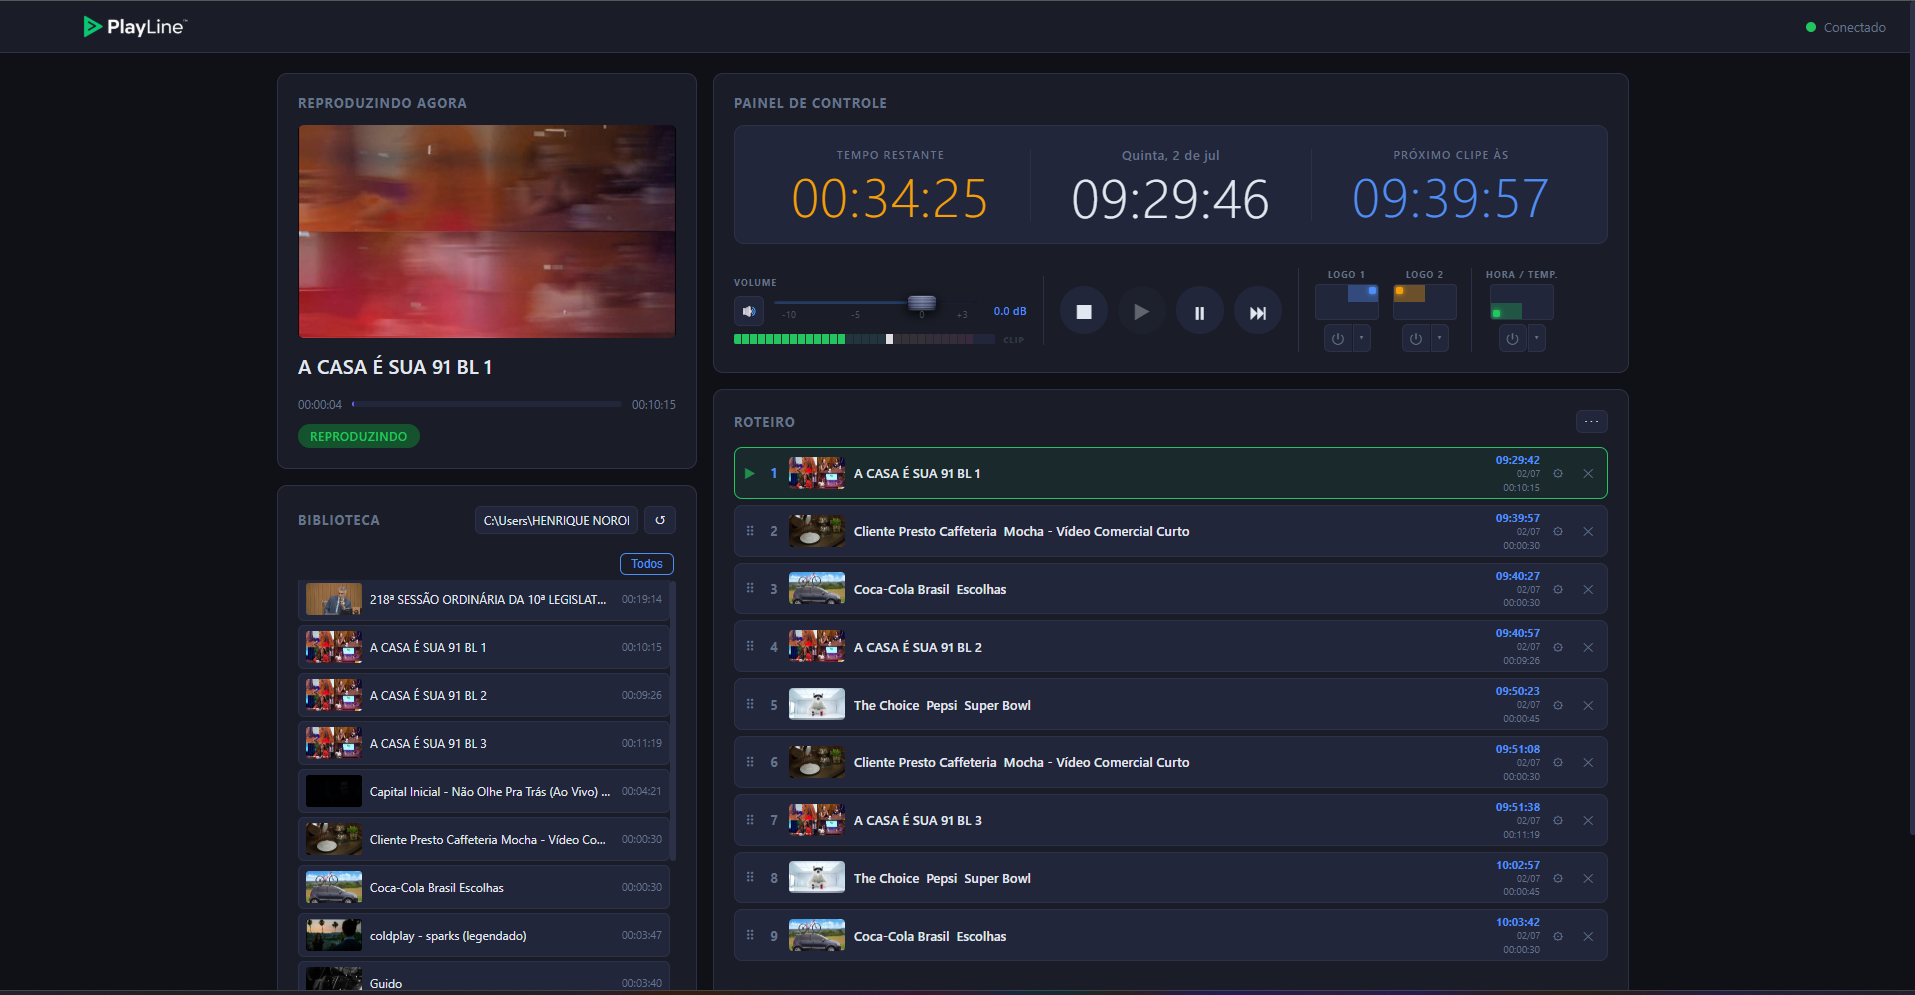
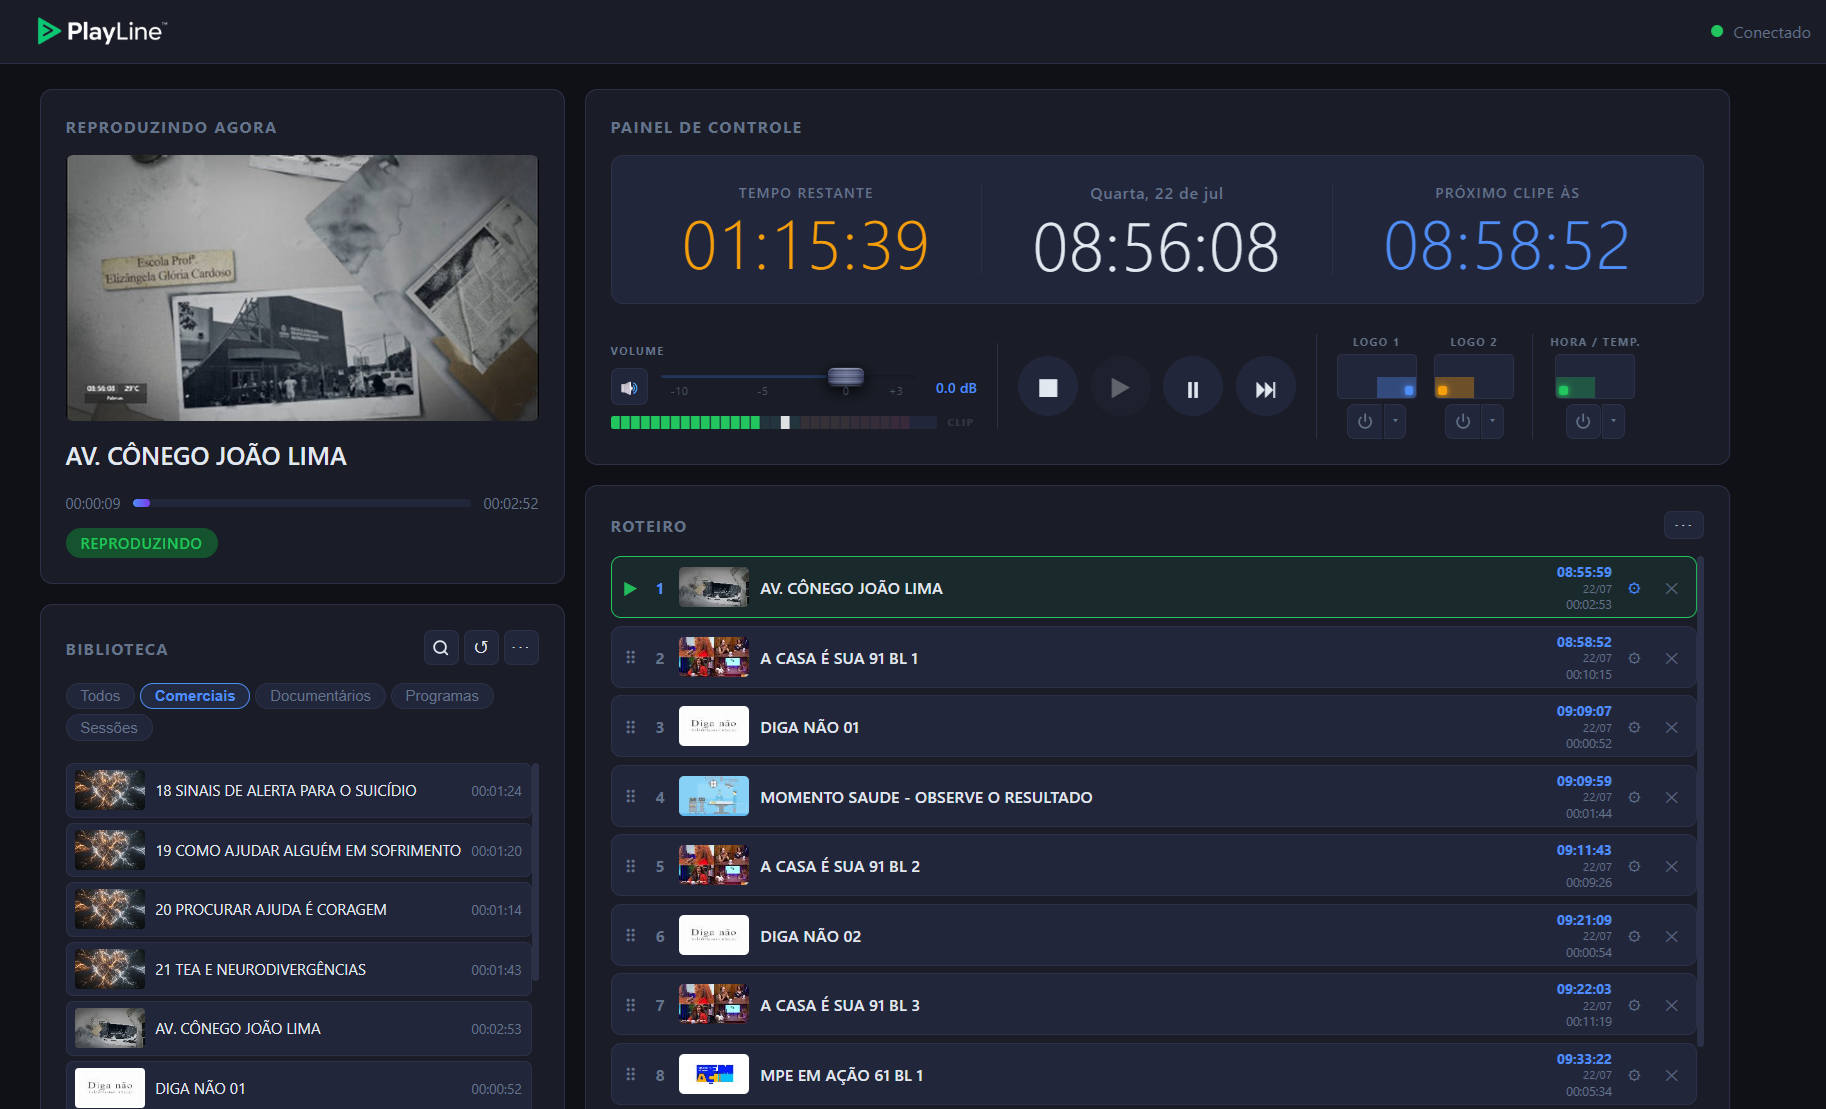
..

diff --git a/frontend/components/text_overlay.js b/frontend/components/text_overlay.js
@@ -7,11 +7,12 @@
 })();
 
 const _textState = {
-  active:    false,
-  show_time: true,
-  show_temp: true,
-  corner:    localStorage.getItem("playline_to_corner") || "tl",
-  city:      localStorage.getItem("playline_to_city")   || "Palmas,TO",
+  active:      false,
+  show_time:   true,
+  show_temp:   true,
+  corner:      localStorage.getItem("playline_to_corner")      || "tl",
+  city:        localStorage.getItem("playline_to_city")        || "Palmas,TO",
+  manual_temp: localStorage.getItem("playline_to_manual_temp") || "",
 };
 
 function applyTextOverlayState(s) {
@@ -22,25 +23,31 @@ function applyTextOverlayState(s) {
     _textState.corner = s.corner;
     localStorage.setItem("playline_to_corner", s.corner);
   }
-  if (s.city      !== undefined) {
+  if (s.city !== undefined) {
     const city = (s.city === "Palmas") ? "Palmas,TO" : s.city;
     _textState.city = city;
     localStorage.setItem("playline_to_city", city);
     if (city !== s.city) _sendTextOverlay();
   }
+  if (s.manual_temp !== undefined) {
+    _textState.manual_temp = s.manual_temp;
+    localStorage.setItem("playline_to_manual_temp", s.manual_temp);
+  }
   _syncTextUI();
 }
 
 function _syncTextUI() {
-  const toggle    = document.getElementById("btn-text-toggle");
-  const timeCheck = document.getElementById("pick-time-check");
-  const tempCheck = document.getElementById("pick-temp-check");
-  const cityInp   = document.getElementById("to-city-input");
+  const toggle     = document.getElementById("btn-text-toggle");
+  const timeCheck  = document.getElementById("pick-time-check");
+  const tempCheck  = document.getElementById("pick-temp-check");
+  const citySelect = document.getElementById("to-city-select");
+  const tempInput  = document.getElementById("to-temp-input");
 
-  if (toggle)    toggle.classList.toggle("active", _textState.active);
-  if (timeCheck) timeCheck.style.visibility = _textState.show_time ? "" : "hidden";
-  if (tempCheck) tempCheck.style.visibility = _textState.show_temp ? "" : "hidden";
-  if (cityInp && document.activeElement !== cityInp) cityInp.value = _textState.city;
+  if (toggle)     toggle.classList.toggle("active", _textState.active);
+  if (timeCheck)  timeCheck.style.visibility = _textState.show_time ? "" : "hidden";
+  if (tempCheck)  tempCheck.style.visibility = _textState.show_temp ? "" : "hidden";
+  if (citySelect && document.activeElement !== citySelect) citySelect.value = _textState.city;
+  if (tempInput  && document.activeElement !== tempInput)  tempInput.value  = _textState.manual_temp || "";
 
   _updateTextPosSelector();
   _updatePreviewOverlay();
@@ -86,6 +93,11 @@ let _previewTemp = null;
 let _previewCityFetched = "";
 
 async function _fetchPreviewTemp() {
+  const manual = (_textState.manual_temp || "").trim();
+  if (manual) {
+    _previewTemp = manual;
+    return;
+  }
   const city = (_textState.city || "Palmas").split(",")[0].trim();
   try {
     const r = await fetch(`/api/temperature?city=${encodeURIComponent(city)}`);
@@ -174,10 +186,12 @@ function _updatePreviewOverlay() {
 // ── Init ──────────────────────────────────────────────────────────────────────
 
 function initTextOverlayUI() {
-  const toggle  = document.getElementById("btn-text-toggle");
-  const timeBtn = document.getElementById("to-show-time-btn");
-  const tempBtn = document.getElementById("to-show-temp-btn");
-  const cityInp = document.getElementById("to-city-input");
+  const toggle     = document.getElementById("btn-text-toggle");
+  const timeBtn    = document.getElementById("to-show-time-btn");
+  const tempBtn    = document.getElementById("to-show-temp-btn");
+  const citySelect = document.getElementById("to-city-select");
+  const tempInput  = document.getElementById("to-temp-input");
+  const fetchBtn   = document.getElementById("to-temp-fetch");
 
   _syncTextUI();
 
@@ -189,7 +203,7 @@ function initTextOverlayUI() {
   _fetchPreviewTemp();
   setInterval(() => {
     if (_textState.show_temp) _fetchPreviewTemp();
-  }, 60000);
+  }, 900000);
 
   if (toggle) {
     toggle.addEventListener("click", () => {
@@ -208,6 +222,7 @@ function initTextOverlayUI() {
       e.stopPropagation();
       textDropdown.classList.toggle("open");
     });
+    textDropdown.addEventListener("click", e => e.stopPropagation());
     document.addEventListener("click", () => textDropdown.classList.remove("open"));
   }
 
@@ -235,17 +250,53 @@ function initTextOverlayUI() {
     });
   }
 
-  if (cityInp) {
-    let _cityTimer = null;
-    cityInp.addEventListener("input", () => {
-      const val = cityInp.value.trim();
-      _textState.city = val || "Palmas";
+  if (citySelect) {
+    citySelect.addEventListener("change", () => {
+      _textState.city = citySelect.value;
       localStorage.setItem("playline_to_city", _textState.city);
-      clearTimeout(_cityTimer);
-      _cityTimer = setTimeout(() => {
-        _fetchPreviewTemp();
+      if (!_textState.manual_temp) {
+        _fetchPreviewTemp().then(() => _updatePreviewOverlay());
+      }
+      _sendTextOverlay();
+    });
+  }
+
+  if (tempInput) {
+    let _tempTimer = null;
+    tempInput.addEventListener("input", () => {
+      _textState.manual_temp = tempInput.value.trim();
+      localStorage.setItem("playline_to_manual_temp", _textState.manual_temp);
+      clearTimeout(_tempTimer);
+      _tempTimer = setTimeout(() => {
+        if (_textState.manual_temp) {
+          _previewTemp = _textState.manual_temp;
+          _updatePreviewOverlay();
+        } else {
+          _fetchPreviewTemp().then(() => _updatePreviewOverlay());
+        }
         _sendTextOverlay();
-      }, 700);
+      }, 500);
+    });
+  }
+
+  if (fetchBtn) {
+    fetchBtn.addEventListener("click", async e => {
+      e.stopPropagation();
+      fetchBtn.disabled = true;
+      const prevManual = _textState.manual_temp;
+      _textState.manual_temp = "";
+      await _fetchPreviewTemp();
+      if (_previewTemp) {
+        if (tempInput) tempInput.value = _previewTemp;
+        _textState.manual_temp = _previewTemp;
+        localStorage.setItem("playline_to_manual_temp", _previewTemp);
+      } else {
+        _textState.manual_temp = prevManual;
+        if (tempInput) tempInput.value = prevManual;
+      }
+      _updatePreviewOverlay();
+      _sendTextOverlay();
+      fetchBtn.disabled = false;
     });
   }
 

diff --git a/frontend/index.html b/frontend/index.html
@@ -136,7 +136,7 @@
                 <div class="pos-indicator"></div>
               </div>
               <div class="logo-toggle-wrap">
-                <button class="btn-logo-toggle" data-slot="1" title="Ativar logo 1">⏻</button>
+                <button class="btn-logo-toggle" data-slot="1" title="Ativar logo 1"><svg xmlns="http://www.w3.org/2000/svg" width="13" height="13" viewBox="0 0 24 24" fill="none" stroke="currentColor" stroke-width="2.5" stroke-linecap="round" stroke-linejoin="round"><path d="M18.36 6.64a9 9 0 1 1-12.73 0"/><line x1="12" y1="2" x2="12" y2="12"/></svg></button>
                 <button class="btn-logo-pick" data-slot="1" title="Selecionar logo">▾</button>
                 <div class="logo-picker-dropdown" id="logo-picker-1"></div>
               </div>
@@ -152,7 +152,7 @@
                 <div class="pos-indicator"></div>
               </div>
               <div class="logo-toggle-wrap">
-                <button class="btn-logo-toggle" data-slot="2" title="Ativar logo 2">⏻</button>
+                <button class="btn-logo-toggle" data-slot="2" title="Ativar logo 2"><svg xmlns="http://www.w3.org/2000/svg" width="13" height="13" viewBox="0 0 24 24" fill="none" stroke="currentColor" stroke-width="2.5" stroke-linecap="round" stroke-linejoin="round"><path d="M18.36 6.64a9 9 0 1 1-12.73 0"/><line x1="12" y1="2" x2="12" y2="12"/></svg></button>
                 <button class="btn-logo-pick" data-slot="2" title="Selecionar logo">▾</button>
                 <div class="logo-picker-dropdown" id="logo-picker-2"></div>
               </div>
@@ -168,7 +168,7 @@
                 <div class="pos-indicator"></div>
               </div>
               <div class="logo-toggle-wrap">
-                <button class="btn-text-toggle btn-logo-toggle" id="btn-text-toggle" title="Ativar hora/temperatura">⏻</button>
+                <button class="btn-text-toggle btn-logo-toggle" id="btn-text-toggle" title="Ativar hora/temperatura"><svg xmlns="http://www.w3.org/2000/svg" width="13" height="13" viewBox="0 0 24 24" fill="none" stroke="currentColor" stroke-width="2.5" stroke-linecap="round" stroke-linejoin="round"><path d="M18.36 6.64a9 9 0 1 1-12.73 0"/><line x1="12" y1="2" x2="12" y2="12"/></svg></button>
                 <button class="btn-logo-pick" id="btn-text-pick" title="Selecionar itens">▾</button>
                 <div class="logo-picker-dropdown" id="text-picker-dropdown">
                   <div class="logo-picker-item" id="pick-time">
@@ -178,6 +178,45 @@
                   <div class="logo-picker-item" id="pick-temp">
                     <span class="logo-picker-check" id="pick-temp-check">✓</span>
                     <span class="logo-picker-name">Temp.</span>
+                  </div>
+                  <div class="to-city-row">
+                    <select id="to-city-select" class="to-city-select">
+                      <option value="Aracaju,SE">Aracaju</option>
+                      <option value="Belém,PA">Belém</option>
+                      <option value="Belo Horizonte,MG">Belo Horizonte</option>
+                      <option value="Boa Vista,RR">Boa Vista</option>
+                      <option value="Campinas,SP">Campinas</option>
+                      <option value="Campo Grande,MS">Campo Grande</option>
+                      <option value="Cuiabá,MT">Cuiabá</option>
+                      <option value="Curitiba,PR">Curitiba</option>
+                      <option value="Florianópolis,SC">Florianópolis</option>
+                      <option value="Fortaleza,CE">Fortaleza</option>
+                      <option value="Goiânia,GO">Goiânia</option>
+                      <option value="João Pessoa,PB">João Pessoa</option>
+                      <option value="Londrina,PR">Londrina</option>
+                      <option value="Macapá,AP">Macapá</option>
+                      <option value="Maceió,AL">Maceió</option>
+                      <option value="Manaus,AM">Manaus</option>
+                      <option value="Natal,RN">Natal</option>
+                      <option value="Palmas,TO">Palmas</option>
+                      <option value="Porto Alegre,RS">Porto Alegre</option>
+                      <option value="Porto Velho,RO">Porto Velho</option>
+                      <option value="Recife,PE">Recife</option>
+                      <option value="Rio Branco,AC">Rio Branco</option>
+                      <option value="Rio de Janeiro,RJ">Rio de Janeiro</option>
+                      <option value="Salvador,BA">Salvador</option>
+                      <option value="Santos,SP">Santos</option>
+                      <option value="São Luís,MA">São Luís</option>
+                      <option value="São Paulo,SP">São Paulo</option>
+                      <option value="Teresina,PI">Teresina</option>
+                      <option value="Uberlândia,MG">Uberlândia</option>
+                      <option value="Vitória,ES">Vitória</option>
+                    </select>
+                  </div>
+                  <div class="to-temp-row">
+                    <span class="to-temp-label">Temp. manual</span>
+                    <input type="text" id="to-temp-input" class="to-temp-input" placeholder="—" maxlength="7" />
+                    <button id="to-temp-fetch" class="to-temp-fetch" title="Buscar temperatura via API"><svg xmlns="http://www.w3.org/2000/svg" width="12" height="12" viewBox="0 0 24 24" fill="none" stroke="currentColor" stroke-width="2.5" stroke-linecap="round" stroke-linejoin="round"><polyline points="23 4 23 10 17 10"/><path d="M20.49 15a9 9 0 1 1-2.12-9.36L23 10"/></svg></button>
                   </div>
                 </div>
               </div>

diff --git a/frontend/styles/text_overlay.css b/frontend/styles/text_overlay.css
@@ -27,9 +27,9 @@
   overflow: hidden;
 }
 
-/* Blocos — mesmos RGBA que o PIL (215/255 ≈ 0.843) */
+/* Blocos — mesmos RGBA que o PIL (190/255 ≈ 0.745) */
 .to-time {
-  background: rgba(0, 61, 165, 0.843);
+  background: rgba(68, 68, 68, 0.745);
   color: #fff;
   padding: 0.16em 0.25em;
   font-size: 1em;
@@ -40,7 +40,7 @@
 }
 
 .to-temp {
-  background: rgba(190, 120, 0, 0.843);
+  background: rgba(52, 52, 52, 0.745);
   color: #fff;
   padding: 0.16em 0.25em;
   font-size: 1em;
@@ -52,7 +52,7 @@
 
 /* Cidade — linha inteira abaixo (0.72 × font_sz) */
 .to-city-lbl {
-  background: rgba(5, 115, 48, 0.843);
+  background: rgba(38, 38, 38, 0.745);
   color: #fff;
   padding: 0.18em 0.25em;
   font-size: 0.72em;
@@ -61,6 +61,73 @@
   justify-content: center;
   border-radius: 0 0 3px 3px;
 }
+
+/* ── Cidade e temperatura manual no dropdown ── */
+.to-city-row {
+  padding: 6px 10px 4px;
+  border-top: 1px solid var(--border);
+}
+
+.to-city-select {
+  width: 100%;
+  background: var(--surface2);
+  border: 1px solid var(--border);
+  border-radius: 5px;
+  color: var(--text);
+  font-size: 11px;
+  padding: 4px 6px;
+  outline: none;
+  font-family: inherit;
+  cursor: pointer;
+}
+.to-city-select:focus { border-color: var(--accent); }
+
+.to-temp-row {
+  padding: 4px 10px 8px;
+  display: flex;
+  align-items: center;
+  gap: 5px;
+}
+
+.to-temp-label {
+  font-size: 10px;
+  color: var(--muted);
+  white-space: nowrap;
+  flex-shrink: 0;
+}
+
+.to-temp-input {
+  flex: 1;
+  min-width: 0;
+  background: var(--surface2);
+  border: 1px solid var(--border);
+  border-radius: 5px;
+  color: var(--text);
+  font-size: 11px;
+  padding: 4px 6px;
+  outline: none;
+  font-family: inherit;
+}
+.to-temp-input:focus { border-color: var(--accent); }
+.to-temp-input::placeholder { color: var(--muted); }
+
+.to-temp-fetch {
+  flex-shrink: 0;
+  width: 24px;
+  height: 24px;
+  background: var(--surface2);
+  border: 1px solid var(--border);
+  border-radius: 5px;
+  color: var(--muted);
+  cursor: pointer;
+  display: flex;
+  align-items: center;
+  justify-content: center;
+  transition: background .1s, color .1s;
+  padding: 0;
+}
+.to-temp-fetch:hover   { background: var(--border); color: var(--text); }
+.to-temp-fetch:disabled { opacity: .4; cursor: not-allowed; }
 
 /* ── Hora / Temperatura overlay controls ── */
 

diff --git a/frontend/components/playlist.js b/frontend/components/playlist.js
@@ -588,7 +588,7 @@ function _copGetOrCreate() {
     <div id="cop-body" class="cop-body">
       <div class="cop-row">
         <span class="cop-lbl">Logo 1</span>
-        <button class="btn-logo-toggle cop-tog" id="cop-tog-1">⏻</button>
+        <button class="btn-logo-toggle cop-tog" id="cop-tog-1"><svg xmlns="http://www.w3.org/2000/svg" width="13" height="13" viewBox="0 0 24 24" fill="none" stroke="currentColor" stroke-width="2.5" stroke-linecap="round" stroke-linejoin="round"><path d="M18.36 6.64a9 9 0 1 1-12.73 0"/><line x1="12" y1="2" x2="12" y2="12"/></svg></button>
         <div class="cop-pick-wrap">
           <button class="cop-pbtn" id="cop-pbtn-1">— ▾</button>
           <div class="logo-picker-dropdown" id="cop-pdd-1"></div>
@@ -596,7 +596,7 @@ function _copGetOrCreate() {
       </div>
       <div class="cop-row">
         <span class="cop-lbl">Logo 2</span>
-        <button class="btn-logo-toggle cop-tog" id="cop-tog-2">⏻</button>
+        <button class="btn-logo-toggle cop-tog" id="cop-tog-2"><svg xmlns="http://www.w3.org/2000/svg" width="13" height="13" viewBox="0 0 24 24" fill="none" stroke="currentColor" stroke-width="2.5" stroke-linecap="round" stroke-linejoin="round"><path d="M18.36 6.64a9 9 0 1 1-12.73 0"/><line x1="12" y1="2" x2="12" y2="12"/></svg></button>
         <div class="cop-pick-wrap">
           <button class="cop-pbtn" id="cop-pbtn-2">— ▾</button>
           <div class="logo-picker-dropdown" id="cop-pdd-2"></div>
@@ -604,7 +604,7 @@ function _copGetOrCreate() {
       </div>
       <div class="cop-row">
         <span class="cop-lbl">Hora / Temp.</span>
-        <button class="btn-logo-toggle cop-tog" id="cop-tog-text">⏻</button>
+        <button class="btn-logo-toggle cop-tog" id="cop-tog-text"><svg xmlns="http://www.w3.org/2000/svg" width="13" height="13" viewBox="0 0 24 24" fill="none" stroke="currentColor" stroke-width="2.5" stroke-linecap="round" stroke-linejoin="round"><path d="M18.36 6.64a9 9 0 1 1-12.73 0"/><line x1="12" y1="2" x2="12" y2="12"/></svg></button>
         <div class="cop-text-opts">
           <div class="logo-picker-item" id="cop-chk-time">
             <span class="logo-picker-check" id="cop-chk-time-mark">✓</span>
